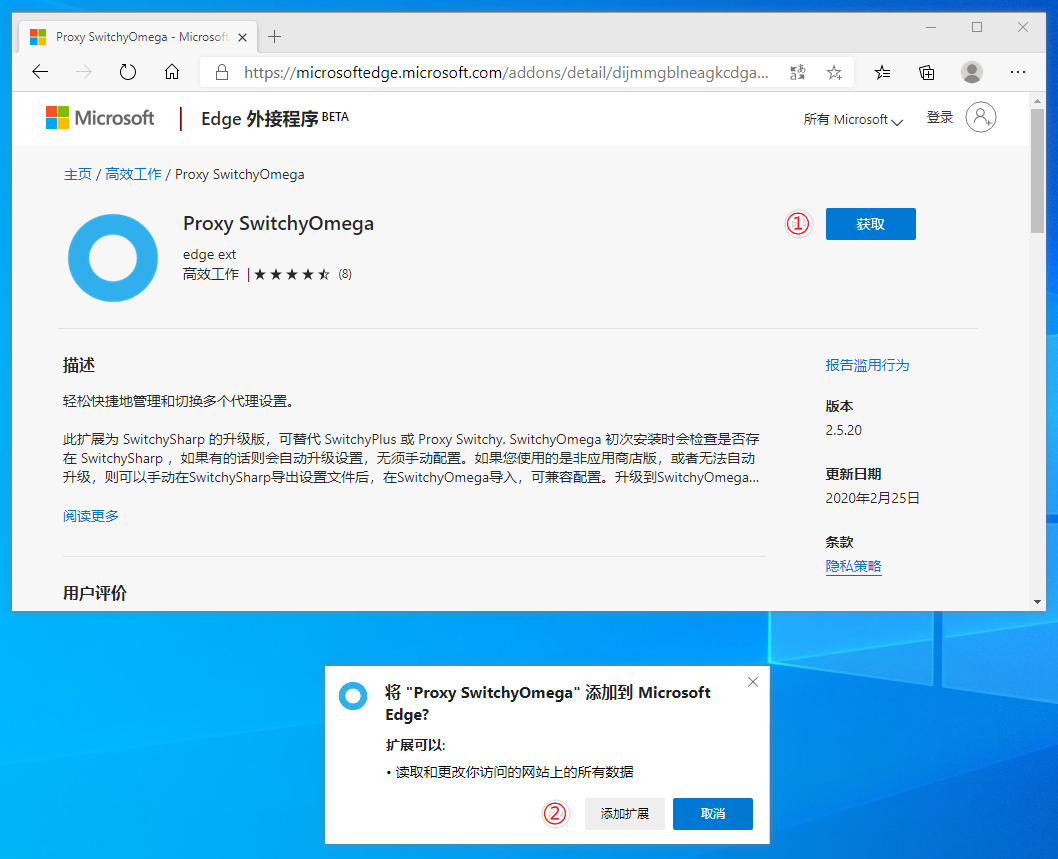
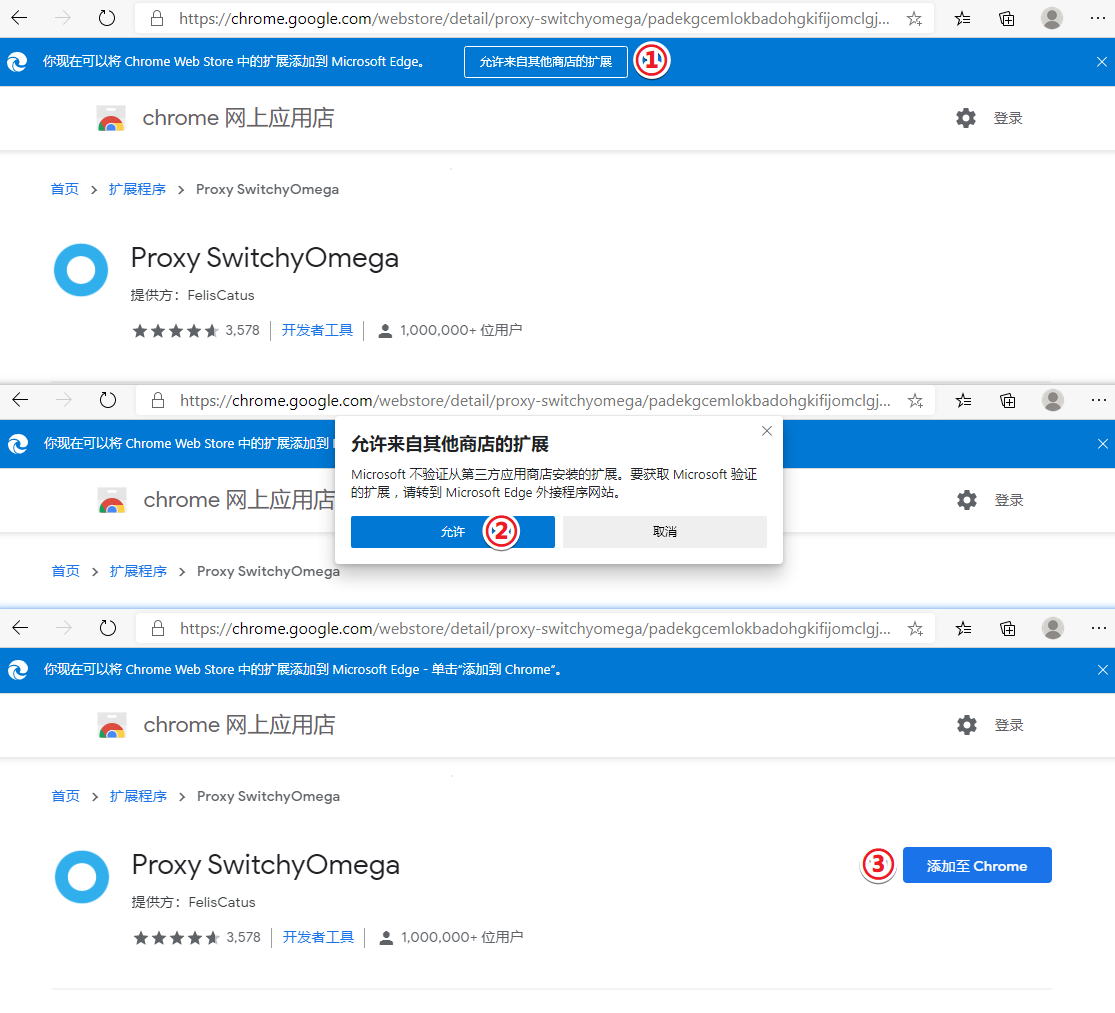
update

diff --git a/zh_CN/browser/proxy-switchyomega-setup-guide.md b/zh_CN/browser/proxy-switchyomega-setup-guide.md
@@ -20,9 +20,8 @@
 - 新版 Microsoft Edge 浏览器下载地址：[https://www.microsoft.com/zh-cn/edge](https://www.microsoft.com/zh-cn/edge)
 
 ## 1. 首先要安装 Proxy SwitchyOmega 扩展
-- Edge 请访问: [Edge 应用商店](https://microsoftedge.microsoft.com/addons/detail/dijmmgblneagkcdganednabkbgjmceoe)
 - Firefox 请访问: [Firefox 应用商店](https://addons.mozilla.org/en-US/firefox/addon/switchyomega/)
-- Chrome 请访问： [Chrome 应用商店](https://chrome.google.com/webstore/detail/proxy-switchyomega/padekgcemlokbadohgkifijomclgjgif?hl=zh-CN)
+- Edge、Chrome 请访问： [Chrome 应用商店](https://chrome.google.com/webstore/detail/proxy-switchyomega/padekgcemlokbadohgkifijomclgjgif?hl=zh-CN)
 
 **注**：Chrome 需要先开启代理客户端系统代理再进行安装，如果系统代理无法生效请查看： [无扩展、无系统代理情况下以代理模式启动 Chrome](/zh_CN/browser/chrome-start-without-system-proxy.md)
 
